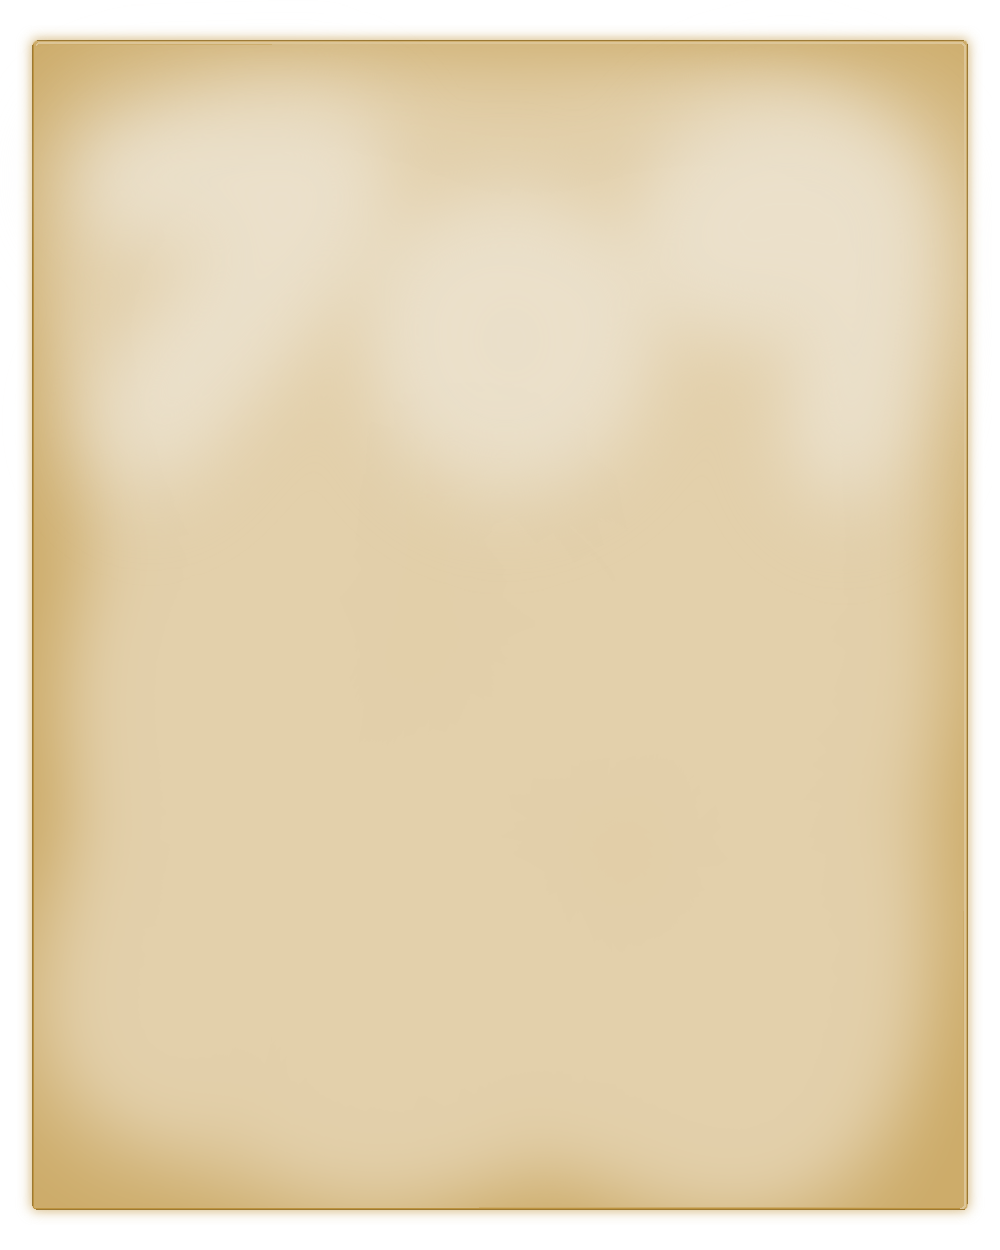
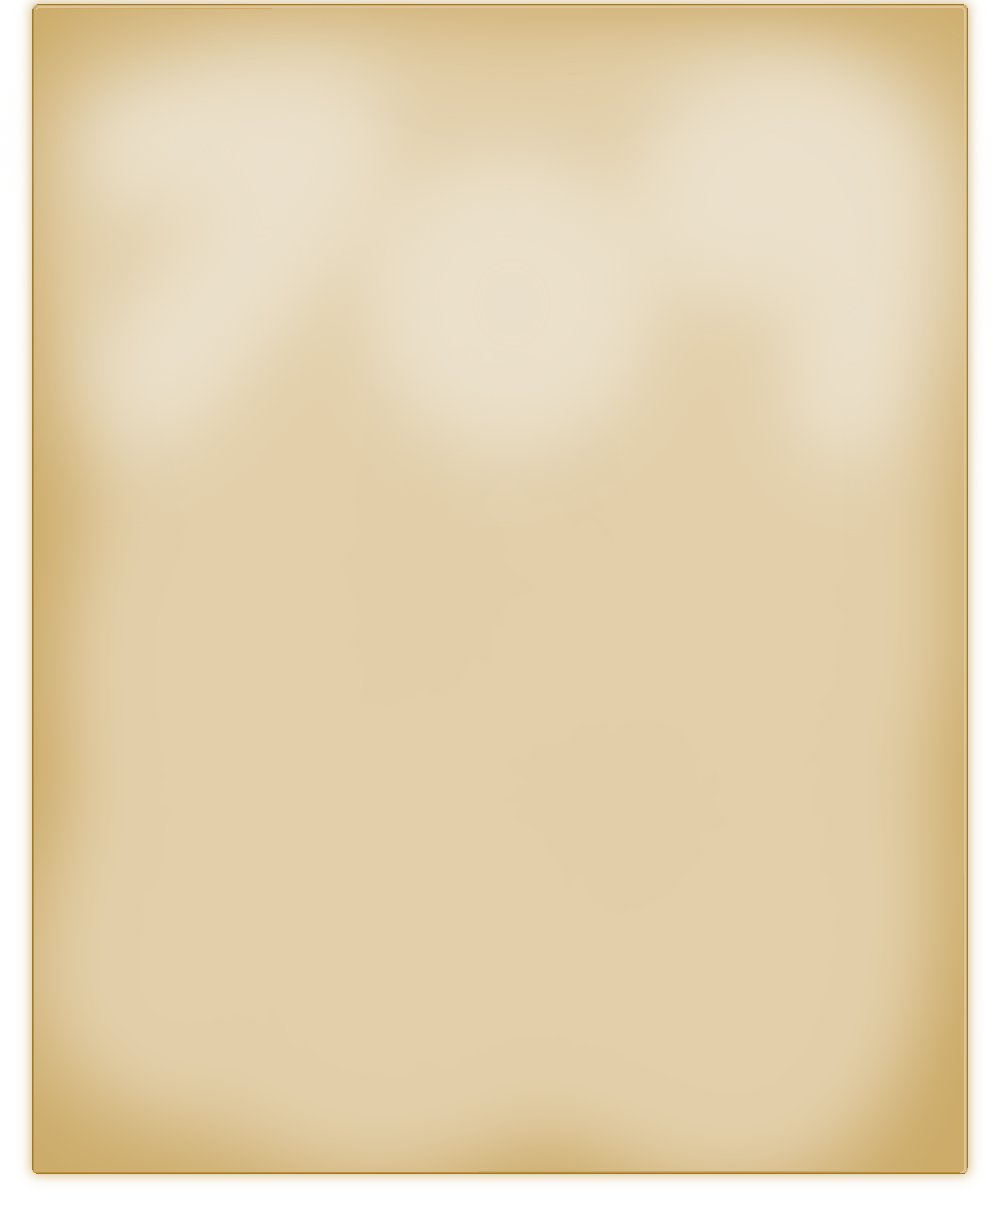
More Background formatting

Changed region(s): [[0.0, 0.0, 0.992, 0.0914], [0.062, 0.9448, 0.961, 0.9753]]

diff --git a/public/main.html b/public/main.html
@@ -11,16 +11,17 @@
             div.contentContainer
             {
                 max-width: 1000px;
-                height: 100%
+                height: 100%;
                 display: block;
                 margin-left: auto;
                 margin-right: auto;
+                padding-top: 10;
                 background-image: url(Art/BGUI2.png);
             }
             div.description
             {
                 max-width: 800px;
-                height: 100%
+                height: 100%;
                 display: block;
                 margin-left: auto;
                 margin-right: auto;
